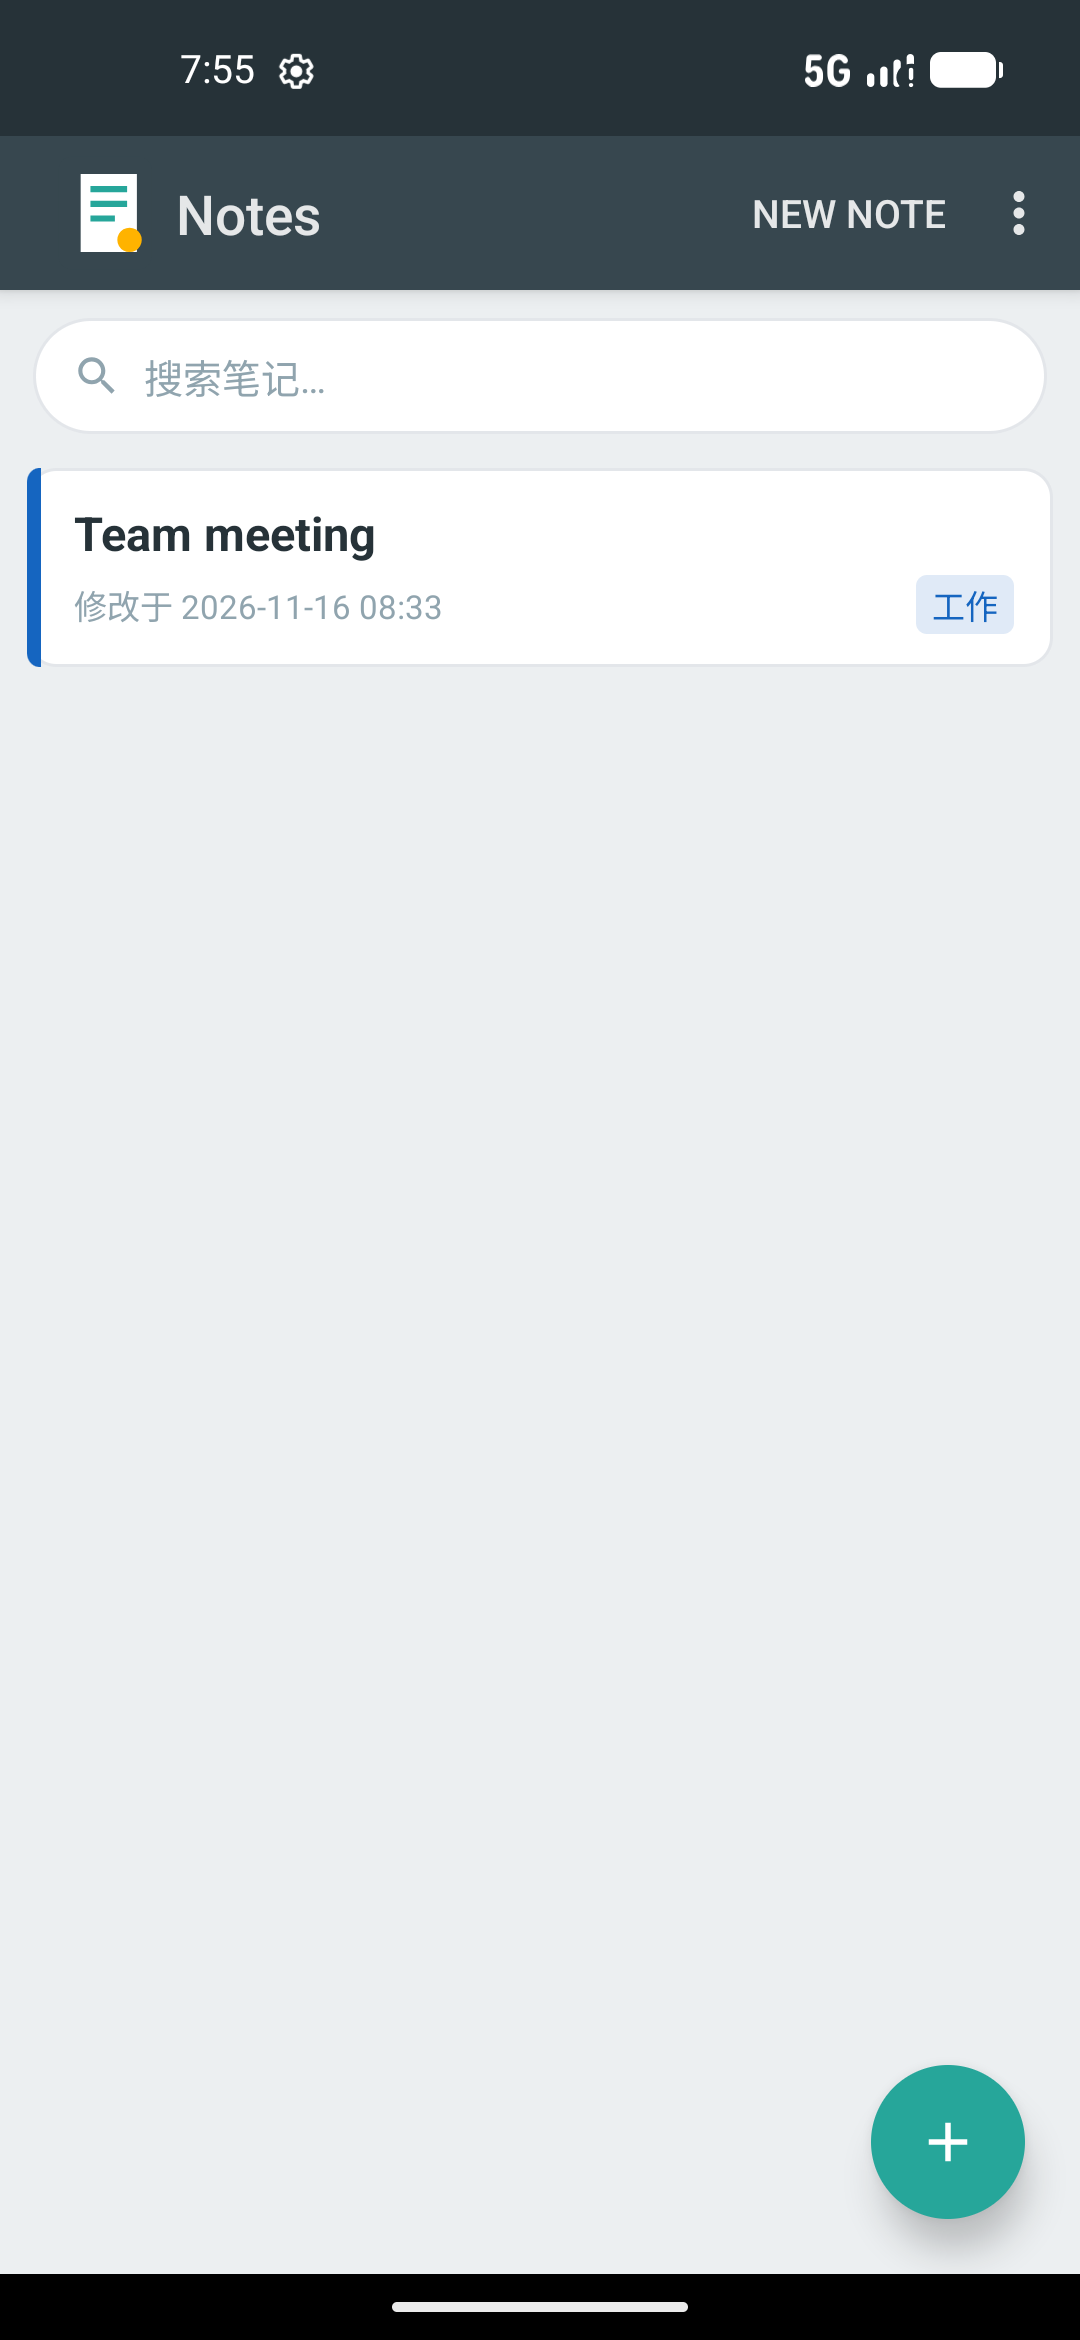
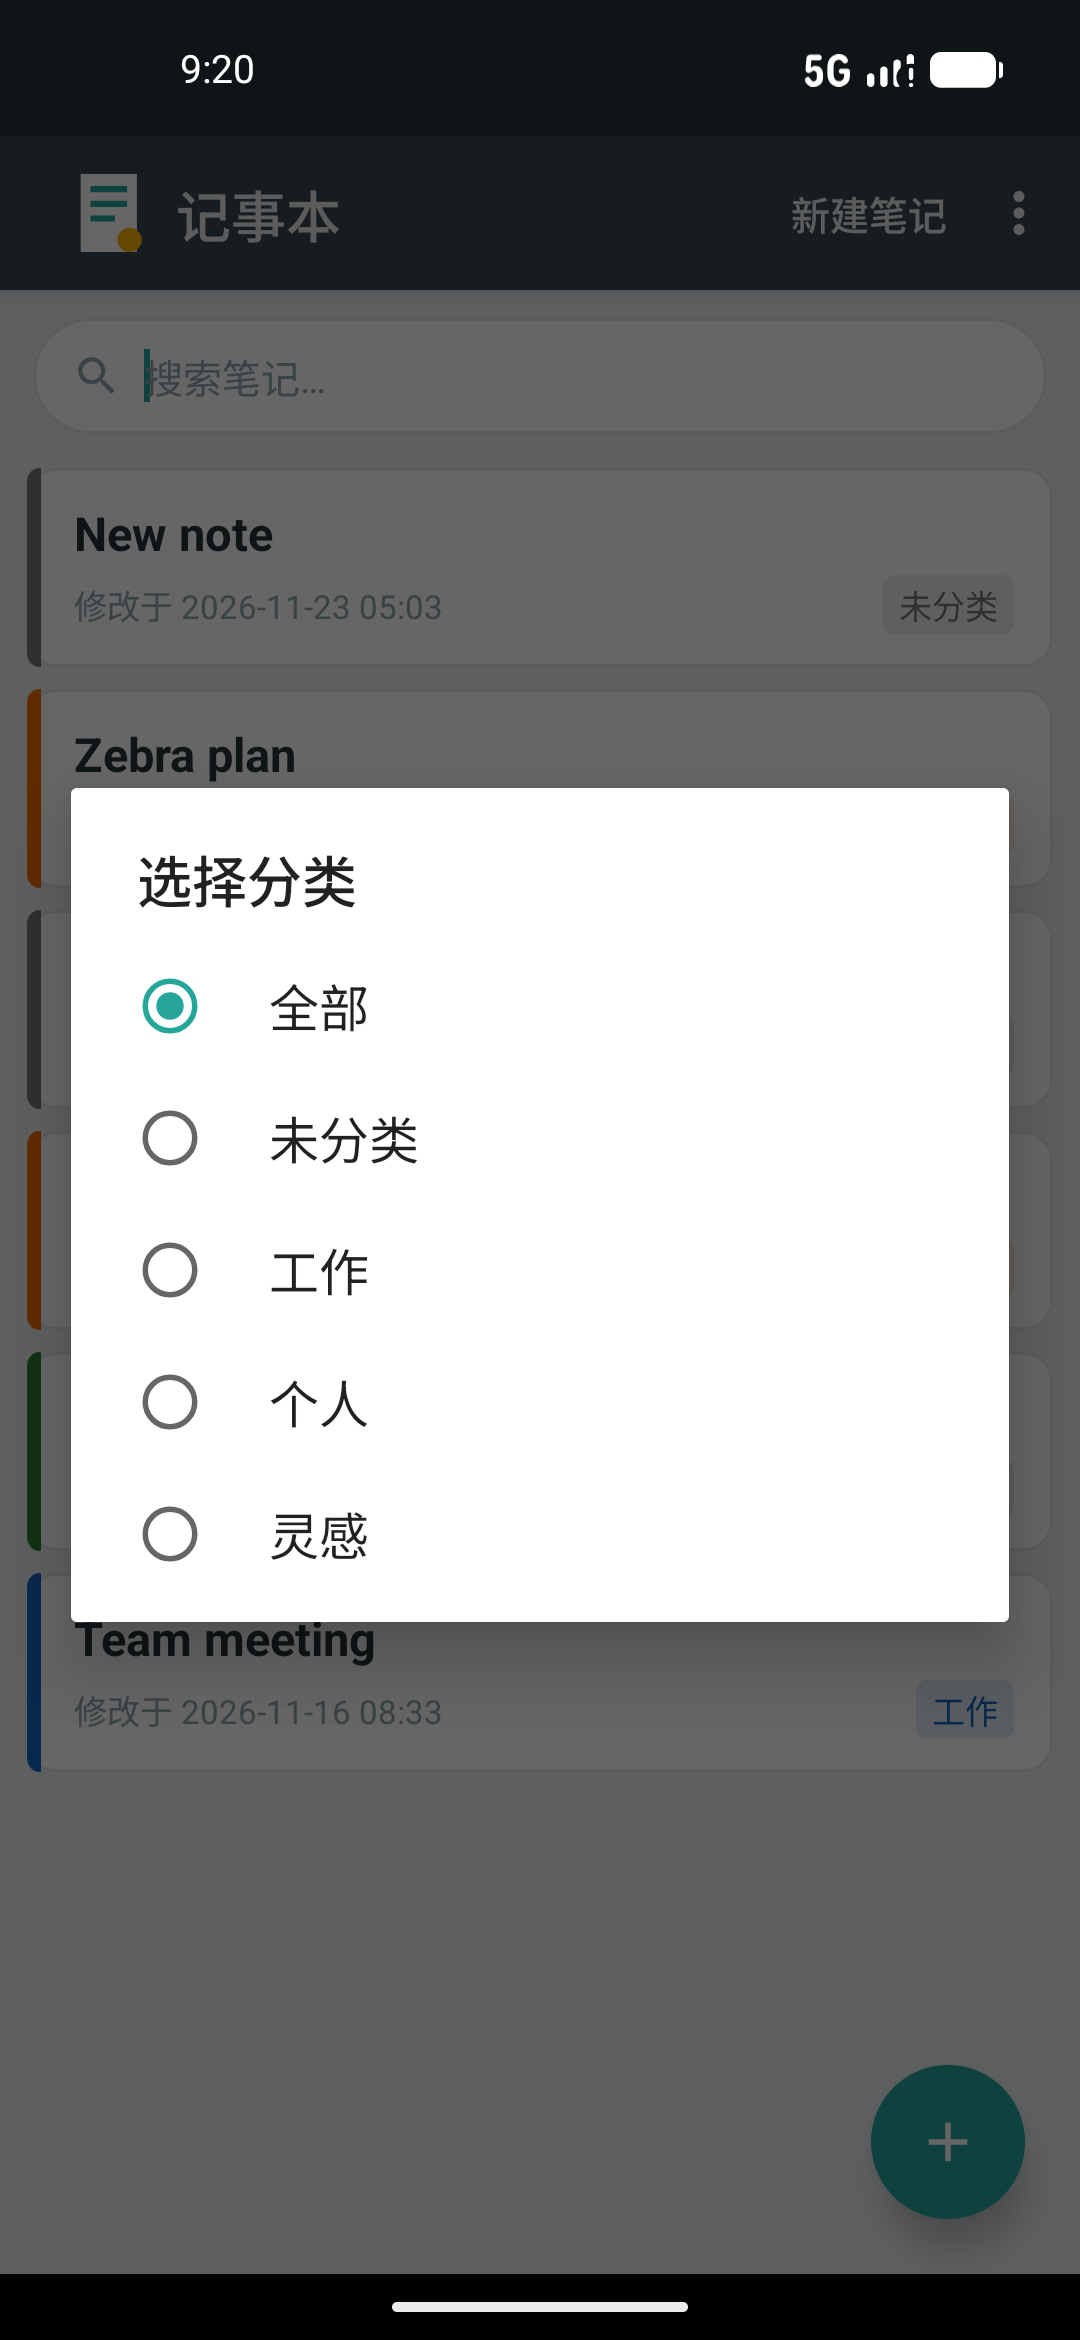
期中项目：界面文案全中文化，更新中文界面截图

diff --git a/app/src/main/java/com/example/android/notepad/NotesList.java b/app/src/main/java/com/example/android/notepad/NotesList.java
@@ -445,7 +445,7 @@ public class NotesList extends ListActivity {
         new AlertDialog.Builder(this)
                 .setTitle(R.string.restore_title)
                 .setMessage(getString(R.string.restore_message, items.length()))
-                .setPositiveButton(android.R.string.ok, new DialogInterface.OnClickListener() {
+                .setPositiveButton(R.string.button_restore, new DialogInterface.OnClickListener() {
                     @Override
                     public void onClick(DialogInterface dialog, int which) {
                         int restored = 0;
@@ -471,7 +471,7 @@ public class NotesList extends ListActivity {
                                 getString(R.string.restore_done, restored), Toast.LENGTH_SHORT).show();
                     }
                 })
-                .setNegativeButton(android.R.string.cancel, null)
+                .setNegativeButton(R.string.button_cancel, null)
                 .show();
     }
 

diff --git a/app/src/main/java/com/example/android/notepad/NotePadProvider.java b/app/src/main/java/com/example/android/notepad/NotePadProvider.java
@@ -261,9 +261,8 @@ public class NotePadProvider extends ContentProvider
             values.put(NotePad.Notes.COLUMN_NAME_MODIFICATION_DATE, now);
         }
         if (values.containsKey(NotePad.Notes.COLUMN_NAME_TITLE) == false) {
-            Resources r = Resources.getSystem();
             values.put(NotePad.Notes.COLUMN_NAME_TITLE,
-                    r.getString(android.R.string.untitled));
+                    getContext().getString(R.string.untitled_note));
         }
         if (values.containsKey(NotePad.Notes.COLUMN_NAME_NOTE) == false) {
             values.put(NotePad.Notes.COLUMN_NAME_NOTE, "");

diff --git a/README.md b/README.md
@@ -29,7 +29,7 @@
 | --- | --- |
 | ![筛选](docs/screenshots/filter.png) | ![编辑器](docs/screenshots/editor.png) |
 
-默认列表按「修改时间」倒序（即上表第一张，Zebra plan 修改时间最新排在最前）；切换为按标题排序后，顺序变为 App idea → Shopping list → Team meeting → Zebra plan：
+默认列表按「修改时间」倒序（即上表第一张，顺序为 Team meeting → Zebra plan → App idea → Shopping list）；切换为按标题排序后，顺序变为 App idea → Shopping list → Team meeting → Zebra plan：
 
 ![按标题排序](docs/screenshots/sort_title.png)
 
